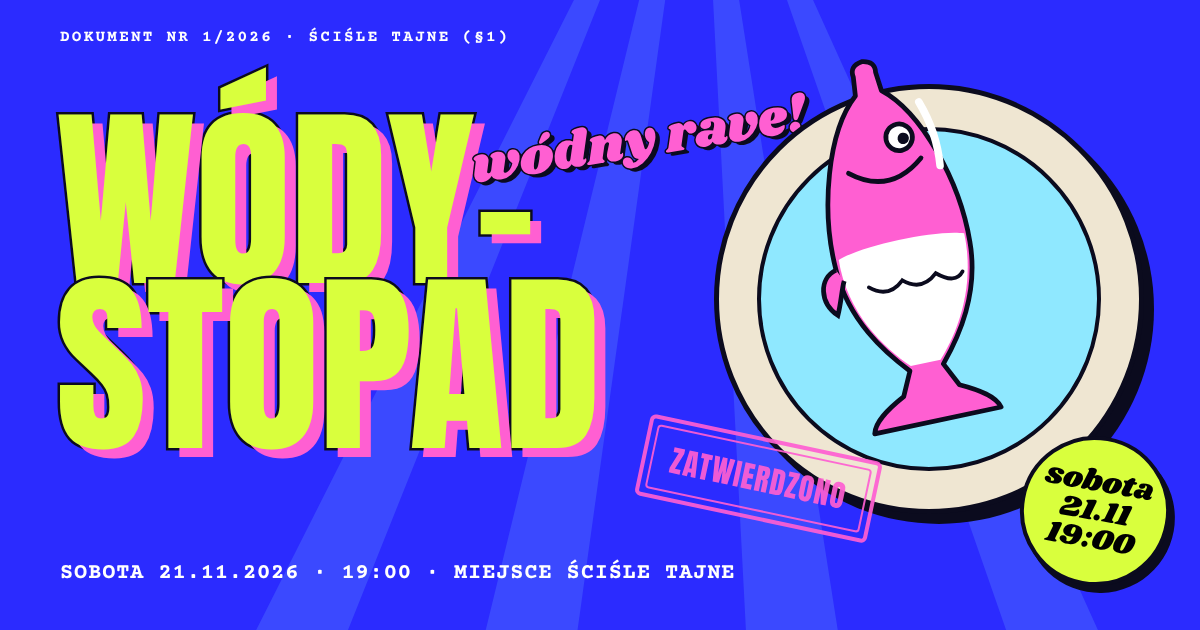
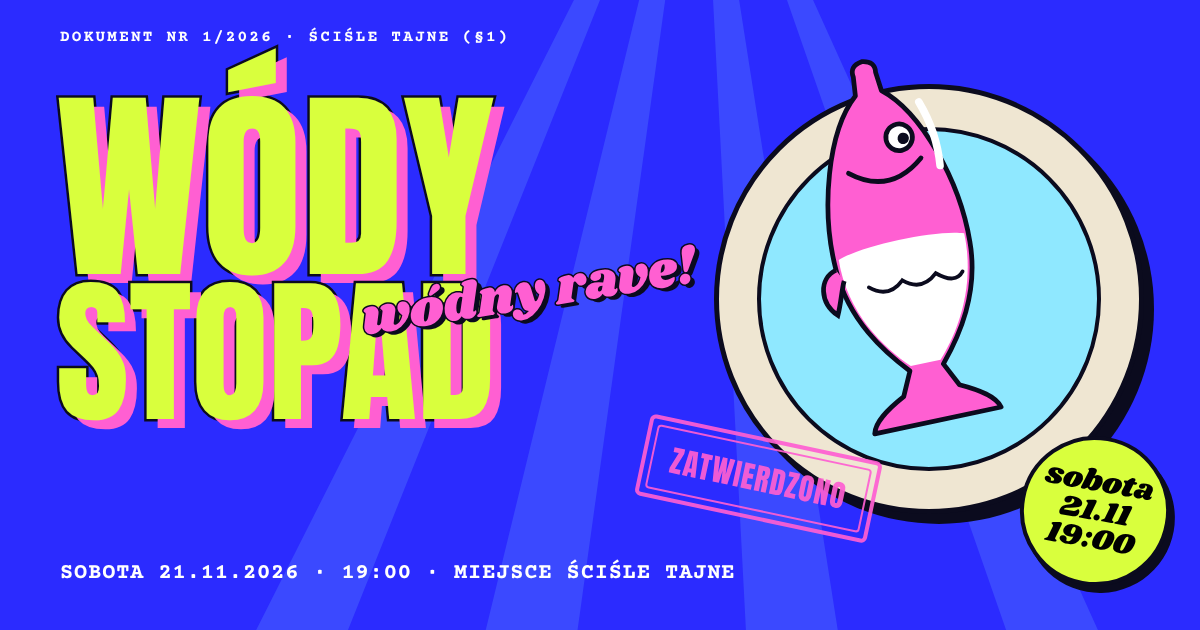
Header WÓDY/STOPAD równej szerokości, efekt rozmywania i zamiany liter, poprawki treści
- Header: bez myślnika, WÓDY skalowane do szerokości STOPAD (też w og.png)
- Rzadkie rozmywanie pojedynczych liter i zamiany sąsiednich liter w headerze
- Naklejka z datą: ciemny tekst (kontrast)
- Licznik: „Do wypicia pierwszego łyczka wódeczki pozostało”
- Usunięty dymek „ok szefie” i checkbox pełnoletności w przysiędze
- Ankieta „Jaka wódeczka?” pusta: propozycje + głosowanie
- Składeczka: kwota i BLIK nieustalone

Claude-Session: https://claude.ai/code/session_01Q6mtA3FM7HAc1Vv4gDvJxZ

Changed region(s): [[0.0308, 0.0603, 0.6783, 0.7238]]

diff --git a/index.html b/index.html
@@ -147,17 +147,20 @@ mark{background:none;color:var(--mag);font-weight:700}
 @keyframes pop{to{transform:scale(1.8);opacity:0}}
 .fish{position:absolute;width:var(--w,120px);height:auto;color:var(--c,#fff);transition:translate .6s cubic-bezier(.2,.9,.3,1.3)}
 .hero__grid{display:grid;grid-template-columns:minmax(0,1fr) minmax(0,520px);gap:24px;align-items:center;position:relative;z-index:3}
-.hero__meta{color:#fff;margin-bottom:64px}
-.hero__title{font:400 clamp(104px,16.4vw,250px)/.86 var(--f-display);text-transform:uppercase;position:relative}
-.hero__title .line{display:block;white-space:nowrap}
+.hero__meta{color:#fff;margin-bottom:56px}
+.hero__title{font:400 clamp(84px,12.8vw,192px)/.9 var(--f-display);text-transform:uppercase;position:relative}
+.hero__title .line{display:table;white-space:nowrap}
 .l{display:inline-block;color:var(--lime);-webkit-text-stroke:.022em var(--ink);paint-order:stroke fill;
   text-shadow:calc(.048em + var(--drunk)*.09em) calc(.04em + var(--drunk)*.03em) 0 var(--pink);
   transform:translateY(calc(var(--dy)*1px)) rotate(calc(var(--rot)*1deg));
   animation:bob var(--dur,3.2s) ease-in-out calc(var(--i)*-.37s) infinite alternate;transition:scale .3s cubic-bezier(.2,2,.4,1)}
 .l:hover{scale:1.08 .92}
+.l{transition:scale .3s cubic-bezier(.2,2,.4,1),filter .7s ease}
+.l.blurry{filter:blur(.05em)}
+.l.swapped{color:var(--pink);text-shadow:calc(.048em + var(--drunk)*.09em) calc(.04em + var(--drunk)*.03em) 0 var(--lime)}
 @keyframes bob{from{transform:translateY(calc(var(--dy)*1px)) rotate(calc(var(--rot)*1deg))}
   to{transform:translateY(calc(var(--dy)*1px - 8px - var(--drunk)*22px)) rotate(calc(var(--rot)*-1deg - var(--drunk)*12deg))}}
-.hero .sticker--rave{text-transform:none;position:absolute;font-size:clamp(28px,4.4vw,64px);right:clamp(-20px,2vw,40px);top:clamp(-10px,1vw,20px);transform:rotate(-9deg);z-index:2;animation:wiggle 2.4s ease-in-out infinite}
+.hero .sticker--rave{text-transform:none;position:absolute;font-size:clamp(28px,4vw,58px);left:62%;top:44%;white-space:nowrap;transform:rotate(-9deg);z-index:2;animation:wiggle 2.4s ease-in-out infinite}
 @keyframes wiggle{50%{transform:rotate(-4deg) scale(1.05)}}
 .hero__tag{color:#fff;font-size:clamp(15px,1.6vw,22px);line-height:1.45;margin-top:30px;max-width:30em}
 .porthole{position:relative;width:min(520px,100%);aspect-ratio:1;margin-left:auto;border-radius:50%;background:var(--paper);border:5px solid var(--ink);box-shadow:10px 10px 0 var(--ink)}
@@ -169,7 +172,7 @@ mark{background:none;color:var(--mag);font-weight:700}
 .carafe .liquid{animation:slosh 2.25s ease-in-out infinite alternate;transform-origin:50% 60%;transform-box:fill-box}
 @keyframes slosh{from{transform:skewY(-5deg)}to{transform:skewY(5deg) translateY(2px)}}
 .porthole .stamp{position:absolute;left:-18%;bottom:12%;color:var(--pink);--rot:12deg;z-index:3}
-.date-sticker{position:absolute;right:-4%;bottom:-2%;width:30%;aspect-ratio:1;border-radius:50%;background:var(--lime);border:4px solid var(--ink);box-shadow:6px 6px 0 var(--ink);display:grid;place-items:center;text-align:center;font:400 clamp(16px,2.2vw,32px)/.95 var(--f-sticker);transform:rotate(10deg);z-index:4;animation:spinny 9s ease-in-out infinite}
+.date-sticker{position:absolute;right:-4%;bottom:-2%;width:30%;aspect-ratio:1;border-radius:50%;background:var(--lime);color:var(--ink);border:4px solid var(--ink);box-shadow:6px 6px 0 var(--ink);display:grid;place-items:center;text-align:center;font:400 clamp(16px,2.2vw,32px)/.95 var(--f-sticker);transform:rotate(10deg);z-index:4;animation:spinny 9s ease-in-out infinite}
 @keyframes spinny{50%{transform:rotate(-4deg) scale(1.04)}}
 
 /* odliczanie */
@@ -185,7 +188,7 @@ mark{background:none;color:var(--mag);font-weight:700}
 .cd__num.flip{animation:flip .45s ease}
 @keyframes flip{0%{transform:rotateX(0)}45%{transform:rotateX(88deg)}100%{transform:rotateX(0)}}
 .cd__unit{font:700 13px var(--f-type);letter-spacing:.2em}
-.cd.done .cd__label b::after{content:" KARAFKA OTWARTA!";color:var(--mag)}
+.cd.done .cd__label b::after{content:" PIJEMY!";color:var(--mag)}
 
 /* =========================================================
    MARQUEE
@@ -222,10 +225,6 @@ mark{background:none;color:var(--mag);font-weight:700}
 .sign small{font:700 13px var(--f-type);letter-spacing:.16em}
 .clip{position:absolute;top:-40px;left:60px;width:40px;height:110px}
 .sheet .stamp{position:absolute;right:8%;bottom:18%;color:var(--mag);--rot:-16deg}
-.reply{position:absolute;right:-26px;bottom:-34px;background:var(--pink);border:3px solid var(--ink);border-radius:22px;box-shadow:5px 5px 0 var(--ink);padding:12px 20px;transform:rotate(6deg) scale(0);transform-origin:0 100%;transition:transform .45s cubic-bezier(.2,1.6,.4,1)}
-.reply.show{transform:rotate(6deg) scale(1)}
-.reply b{display:block;font-size:20px}
-.reply small{font-size:11px;opacity:.7}
 
 /* =========================================================
    REGULAMIN
@@ -279,6 +278,7 @@ mark{background:none;color:var(--mag);font-weight:700}
 .poll button.mine .row span::before{content:"✓ "}
 .poll button.mine .bar i{background:var(--ink)}
 .poll-add{display:flex;gap:8px}
+.poll-empty{font-style:italic;font-size:15px;line-height:1.5;background:rgba(255,255,255,.45);border:2px dashed var(--ink);border-radius:12px;padding:16px}
 .poll-add input{flex:1;min-width:0;border:2px solid var(--ink);border-radius:12px;padding:12px 14px;font:14px var(--f-type);background:#fff}
 .poll-add button{border:2px solid var(--ink);border-radius:12px;background:var(--ink);color:var(--lime);padding:0 16px;font-weight:700}
 .stepper{display:flex;align-items:center;gap:20px}
@@ -302,6 +302,8 @@ mark{background:none;color:var(--mag);font-weight:700}
 .ledger{background:#fff;border:2px solid var(--ink);border-radius:12px;padding:14px 16px;font-size:14px;line-height:1.6}
 .ledger b{display:block}
 .ledger .warn{color:var(--mag);animation:warn 1.2s steps(2) infinite}
+.coinbar__tbd{position:absolute;inset:0;display:grid;place-items:center;font:italic 700 13px var(--f-type);color:var(--ink);opacity:.6;animation:warn 1.6s steps(2) infinite}
+.pay--tbd{background:transparent!important;color:var(--ink)!important;border-style:dashed!important}
 @keyframes warn{50%{opacity:.4}}
 .panel .btn-pill{justify-content:center;margin-top:auto}
 .zp__foot{display:flex;justify-content:space-between;align-items:flex-end;gap:30px;margin-top:70px;flex-wrap:wrap}
@@ -505,14 +507,15 @@ mark{background:none;color:var(--mag);font-weight:700}
   .hero__meta{font-size:9px;margin-bottom:34px}
   .stamp small{font-size:8px;letter-spacing:.1em}
   .stamp>span{padding:6px 12px}
-  .hero__title{font-size:min(118px,29vw);line-height:.92}
-  .hero .sticker--rave{font-size:28px;right:-6px;top:-14px;-webkit-text-stroke-width:2px;text-shadow:3px 3px 0 var(--ink)}
+  .hero__title{font-size:min(96px,24vw);line-height:.92}
+  .hero .sticker--rave{font-size:24px;left:auto;right:-10px;top:40%;-webkit-text-stroke-width:2px;text-shadow:3px 3px 0 var(--ink)}
   .hero__right{margin-top:22px}
-  .porthole{width:230px;margin:0 auto;box-shadow:6px 6px 0 var(--ink);border-width:4px}
+  .porthole{width:196px;margin:0 auto;box-shadow:6px 6px 0 var(--ink);border-width:4px}
   .porthole .stamp{left:-26%;bottom:4%;--ss:16px}
   .porthole .stamp>span{padding:6px 12px}
   .date-sticker{width:96px;right:-22%;bottom:10%;font-size:16px;border-width:3px;box-shadow:4px 4px 0 var(--ink)}
-  .hero__tag{font-size:14px;margin-top:26px}
+  .hero__tag{font-size:13.5px;margin-top:20px}
+  .hero__tag br{display:none}
   .cd{margin-top:16px;gap:10px;flex-wrap:nowrap}
   .cd__label{position:absolute;top:-22px;left:0;width:auto;padding:0;background:none;border:0;box-shadow:none;transform:none}
   .cd__label b{font-size:10px;color:var(--lime);letter-spacing:.1em}
@@ -532,8 +535,7 @@ mark{background:none;color:var(--mag);font-weight:700}
   .sheet h3{font-size:17px}
   .clip{width:26px;height:72px;top:-34px}
   .sheet .stamp{--ss:22px;right:4%;bottom:14%}
-  .reply{right:-6px;bottom:-30px;padding:10px 14px} .reply b{font-size:15px}
-  .attachments{order:3;margin-top:70px}
+     .attachments{order:3;margin-top:70px}
   .pismo__left{display:contents}
   .pismo__note{font-size:16px}
   /* regulamin */
@@ -720,7 +722,7 @@ mark{background:none;color:var(--mag);font-weight:700}
   <button class="btn-pill btn-lime" id="menu-close" style="position:absolute;top:22px;right:28px;padding:8px 14px;font-size:12px">ZAMKNIJ ✕</button>
   <p class="eyebrow" style="color:var(--lime);font-size:10px">Spis treści · Dok. nr 1/2026</p>
   <ol id="menu-list"></ol>
-  <div class="menu__cd"><span data-cd-text>DO OTWARCIA KARAFKI: —</span><small>SOBOTA 21.11.2026 · 19:00 · MIEJSCE ŚCIŚLE TAJNE</small></div>
+  <div class="menu__cd"><span data-cd-text>DO PIERWSZEGO ŁYCZKA: —</span><small>SOBOTA 21.11.2026 · 19:00 · MIEJSCE ŚCIŚLE TAJNE</small></div>
 </div>
 
 <div class="sticky" id="sticky">
@@ -739,8 +741,8 @@ mark{background:none;color:var(--mag);font-weight:700}
     <div class="hero__grid">
       <div class="hero__left">
         <p class="eyebrow hero__meta">Dokument nr 1/2026 · klauzula: ściśle tajne (§1) · edycja: wódna</p>
-        <h1 class="hero__title" aria-label="Wódystopad"><span class="line" data-split>WÓDY-</span><span class="line" data-split>STOPAD</span><span class="sticker sticker--rave" aria-hidden="true">wódny rave!</span></h1>
-        <p class="hero__tag">Jedyny miesiąc w roku, w którym pijemy wódkę.<br>A konkretnie — jeden wieczór.</p>
+        <h1 class="hero__title" aria-label="Wódystopad"><span class="line" data-split>WÓDY</span><span class="line" data-split>STOPAD</span><span class="sticker sticker--rave" aria-hidden="true">wódny rave!</span></h1>
+        <p class="hero__tag">Jedyny miesiąc w roku, w którym pijemy wódkę. <br>A konkretnie — jeden wieczór.</p>
       </div>
       <div class="hero__right">
         <div class="porthole" id="porthole">
@@ -752,7 +754,7 @@ mark{background:none;color:var(--mag);font-weight:700}
       </div>
     </div>
     <div class="cd" id="countdown" aria-live="off">
-      <div class="cd__label"><b>DO OTWARCIA KARAFKI POZOSTAŁO:</b><i>(odliczanie urzędowe, nie podlega negocjacjom)</i></div>
+      <div class="cd__label"><b>DO WYPICIA PIERWSZEGO ŁYCZKA WÓDECZKI POZOSTAŁO:</b><i>(odliczanie urzędowe, nie podlega negocjacjom)</i></div>
       <div class="cd__cell"><span class="cd__num" data-u="d">00</span><span class="cd__unit">DNI</span></div>
       <div class="cd__cell"><span class="cd__num" data-u="h">00</span><span class="cd__unit">GODZ.</span></div>
       <div class="cd__cell"><span class="cd__num" data-u="m">00</span><span class="cd__unit">MIN.</span></div>
@@ -791,7 +793,6 @@ mark{background:none;color:var(--mag);font-weight:700}
       <p class="hl" data-type>Pieczątkę odbycia kary podbiję.</p>
       <div class="sign"><b>Wiktorek</b><small>WÓDZIREJ NACZELNY</small></div>
       <div class="stamp" data-stamp id="sheet-stamp"><span><b>WÓDZIREJ</b><small>pieczęć urzędowa</small></span></div>
-      <div class="reply" id="reply"><b>ok szefie</b><small>przeczytano ✓✓</small></div>
     </article>
   </div>
 </section>
@@ -833,7 +834,7 @@ mark{background:none;color:var(--mag);font-weight:700}
     <nav class="tabs" id="tabs" aria-label="Panele zaopatrzenia"><a href="#p-marka" class="on">MARKA</a><a href="#p-butelki">BUTELKI</a><a href="#p-skladeczka">SKŁADECZKA</a></nav>
     <div class="panels">
       <div class="panel" id="p-marka" data-reveal>
-        <span class="panel__k">ANKIETA W-2 · JEDEN GŁOS NA WÓDOWICZA</span>
+        <span class="panel__k">ANKIETA W-2 · ZGŁOŚ MARKĘ I GŁOSUJ</span>
         <h3>Jaka wódeczka?</h3>
         <div class="poll" id="poll"></div>
         <form class="poll-add" id="poll-add"><input type="text" id="poll-input" maxlength="40" placeholder="+ zgłoś markę (bez żartów)" aria-label="Zgłoś markę"><button type="submit" aria-label="Dodaj">+</button></form>
@@ -934,7 +935,6 @@ mark{background:none;color:var(--mag);font-weight:700}
         <label class="f">IMIĘ I NAZWISKO<input type="text" name="imie" autocomplete="name" required></label>
         <label class="f">KSYWA WÓDCZANA (OPCJONALNIE)<input type="text" name="ksywa"></label>
         <label class="check"><input type="checkbox" name="regulamin" required>Zapoznałem(-am) się z regulaminem (lub ktoś mi go przeczytał).</label>
-        <label class="check"><input type="checkbox" name="pelnoletni" required>Jestem osobą pełnoletnią.</label>
         <label class="check"><input type="checkbox" name="skladeczka">Wpłaciłem(-am) na składeczkę i nie zostawiam „wyświetlone”.</label>
         <p class="err" id="oath-err" aria-live="polite"></p>
         <button class="btn-pill btn-ink" type="submit">Przysięgam uroczyście →</button>
@@ -1008,9 +1008,9 @@ const CONFIG = {
     ['19:00','Otwarcie butelki i kielonek powitalny','xl'], ['19:15','Toast inauguracyjny','l'], ['19:30','Odczyt regulaminu na głos','m'],
     ['21:00','Posiedzenie komisji','s'], ['23:00','Wolne wnioski (tryb §3)','xs'], ['??:??','+ Zamknięcie posiedzenia','xxs'],
   ],
-  poll: [ ['Klasyczna czysta (głos rozsądku)',4], ['Żytnia (dla koneserów)',2], ['Ta z trawką (komisja bada §6)',1], ['Najtańsza (veto Wódzireja)',0] ],
+  poll: [],   // propozycje startowe [nazwa, głosy] — pusta = Wódowicze zgłaszają sami
   bottles: 6, guests: 8, bottleMl: 700, glassMl: 30,
-  skladeczka: { zebrano:240, cel:400, wplacili:5, wyswietlone:2, blik:'+48 000 000 000', tytul:'Tytuł: „Wódystopad — składeczka”' },
+  skladeczka: { zebrano:0, cel:null, wplacili:0, wyswietlone:null, blik:'', tytul:'Tytuł: „Wódystopad — składeczka”' }, // cel:null / blik:'' = jeszcze nieustalone
   sworn: 5,                 // ile osób złożyło przysięgę (stan startowy)
   formEndpoint: '',         // np. 'https://formspree.io/f/xxxxxxx' — wtedy przysięgi lecą do Wódzireja mailem
   counterAlwaysOn: false,   // true = licznik rybek działa także przed 21.11 (do testów)
@@ -1081,6 +1081,17 @@ $$('[data-reveal],[data-stamp]').forEach(el => revealIO.observe(el));
 $$('[data-split]').forEach((line, li) => { const t = line.textContent; line.textContent='';
   [...t].forEach((ch,i) => { const s = document.createElement('span'); s.className='l'; s.textContent=ch; s.setAttribute('aria-hidden','true');
     s.style.cssText = `--i:${li*6+i};--dy:${((rnd()-.5)*18).toFixed(1)};--rot:${((rnd()-.5)*9).toFixed(1)};--dur:${(2.6+rnd()*1.4).toFixed(2)}s`; line.appendChild(s); }); });
+(() => { const [w1, w2] = $$('.hero__title .line'); // WÓDY = szerokość STOPAD
+  const fit = () => { w1.style.fontSize = '1em'; const r = w2.offsetWidth / w1.offsetWidth; w1.style.fontSize = r.toFixed(4) + 'em'; };
+  fit(); addEventListener('resize', fit); document.fonts && document.fonts.ready.then(fit); })();
+(() => { if (reduced) return; // pojedyncze litery: czasem się rozmyją, czasem dwie zamienią miejscami — rzadko i delikatnie
+  const lines = $$('.hero__title .line').map(l => $$('.l', l)); const all = lines.flat(); const r = (a,b) => a + Math.random()*(b-a);
+  const blur = () => { const el = all[Math.floor(Math.random()*all.length)]; el.classList.add('blurry'); setTimeout(() => el.classList.remove('blurry'), r(900,1500)); setTimeout(blur, r(2600,5200)); };
+  const swap = () => { const ln = lines[Math.floor(Math.random()*lines.length)]; const i = Math.floor(Math.random()*(ln.length-1)); const a = ln[i], b = ln[i+1];
+    [a.textContent, b.textContent] = [b.textContent, a.textContent]; a.classList.add('swapped'); b.classList.add('swapped');
+    setTimeout(() => { [a.textContent, b.textContent] = [b.textContent, a.textContent]; a.classList.remove('swapped'); b.classList.remove('swapped'); }, r(550,850));
+    setTimeout(swap, r(6000,11000)); };
+  setTimeout(blur, 1800); setTimeout(swap, 4500); })();
 (() => { let p=''; const ax=900, ay=-300, L=2200; for(let i=0;i<9;i++){ const a=(-48+i*12)*Math.PI/180, b=a+5.5*Math.PI/180;
   p+=`M${ax} ${ay} L${(ax+L*Math.sin(a)).toFixed(0)} ${(ay+L*Math.cos(a)).toFixed(0)} L${(ax+L*Math.sin(b)).toFixed(0)} ${(ay+L*Math.cos(b)).toFixed(0)} Z `; }
   $('#rays').innerHTML = `<path d="${p}" fill="#8FE8FF" fill-opacity=".16"/>`; })();
@@ -1123,7 +1134,7 @@ spawnFish($('#fishes2'), [[18,120,'#FF5FD2',.8],[30,100,'#fff',.6],[78,90,'#D9FF
   const tick = () => { let ms = Math.max(0, target - Date.now()); const d=Math.floor(ms/864e5), h=Math.floor(ms/36e5)%24, m=Math.floor(ms/6e4)%60, s=Math.floor(ms/1e3)%60;
     const v = {d:pad(d),h:pad(h),m:pad(m),s:pad(s)};
     for (const k in v) if (els[k].textContent !== v[k]) { els[k].textContent = v[k]; if(!reduced){ els[k].classList.remove('flip'); void els[k].offsetWidth; els[k].classList.add('flip'); } }
-    menuCd.textContent = `DO OTWARCIA KARAFKI: ${v.d} DNI ${v.h}:${v.m}:${v.s}`;
+    menuCd.textContent = `DO PIERWSZEGO ŁYCZKA: ${v.d} DNI ${v.h}:${v.m}:${v.s}`;
     if (ms === 0) $('#countdown').classList.add('done'); };
   tick(); setInterval(tick, 1000); })();
 
@@ -1138,10 +1149,10 @@ spawnFish($('#fishes2'), [[18,120,'#FF5FD2',.8],[30,100,'#fff',.6],[78,90,'#D9FF
    PISMO: maszyna do pisania
    ========================================================= */
 (() => { const ps = $$('[data-type]'); const texts = ps.map(p => p.textContent); let started = false;
-  if (reduced) { $('#reply').classList.add('show'); return; }
+  if (reduced) return;
   ps.forEach(p => p.style.minHeight = p.offsetHeight + 'px');
   const io = new IntersectionObserver(es => { if (!es[0].isIntersecting || started) return; started = true; io.disconnect(); ps.forEach(p => p.textContent='');
-    let i = 0; const next = () => { if (i >= ps.length) { $('#sheet-stamp').classList.add('in'); setTimeout(()=>$('#reply').classList.add('show'), 700); return; }
+    let i = 0; const next = () => { if (i >= ps.length) { $('#sheet-stamp').classList.add('in'); return; }
       const p = ps[i], t = texts[i]; let c = 0; p.classList.add('typing');
       const step = () => { c += 3; p.textContent = t.slice(0, c); if (c < t.length) setTimeout(step, 14); else { p.classList.remove('typing'); i++; setTimeout(next, 220); } }; step(); };
     next(); }, {threshold:.35});
@@ -1186,10 +1197,12 @@ spawnFish($('#fishes2'), [[18,120,'#FF5FD2',.8],[30,100,'#fff',.6],[78,90,'#D9FF
   let opts = store.get('poll-extra', []); const mine = () => store.get('poll-vote', null);
   const render = () => { const all = CONFIG.poll.concat(opts.map(o=>[o,0])); const v = mine();
     const votes = all.map(([n,c]) => c + (v===n?1:0)); const max = Math.max(4, ...votes);
+    if (!all.length) { $('#poll').innerHTML = '<p class="poll-empty">Brak propozycji. Komisja czeka na pierwszą markę — zgłoś ją poniżej (bez żartów).</p>'; return; }
     $('#poll').innerHTML = all.map(([n],i) => `<button type="button" class="${v===n?'mine':''}" data-n="${n.replace(/"/g,'&quot;')}"><div class="row"><span>${n}</span><em>${votes[i]}</em></div><div class="bar"><i style="width:${Math.max(3, votes[i]/max*100)}%"></i></div></button>`).join('');
     $$('#poll button').forEach(b => b.onclick = () => { store.set('poll-vote', b.dataset.n); render(); toast('Głos oddany. Komisja odnotowała.'); }); };
   $('#poll-add').onsubmit = e => { e.preventDefault(); const v = $('#poll-input').value.trim(); if (!v) return;
-    if (/żart|haha|xd/i.test(v)) { toast('Mówiłem: bez żartów.'); return; } opts.push(v); store.set('poll-extra', opts); store.set('poll-vote', v); $('#poll-input').value=''; render(); toast('Propozycja przyjęta (i od razu Twój głos).'); };
+    if (/żart|haha|xd/i.test(v)) { toast('Mówiłem: bez żartów.'); return; }
+    if (CONFIG.poll.concat(opts.map(o=>[o])).some(([n]) => n.toLowerCase() === v.toLowerCase())) { toast('Ta marka już jest na liście — zagłosuj na nią.'); return; } opts.push(v); store.set('poll-extra', opts); store.set('poll-vote', v); $('#poll-input').value=''; render(); toast('Propozycja przyjęta (i od razu Twój głos).'); };
   render();
 })();
 (() => { // butelki
@@ -1204,13 +1217,17 @@ spawnFish($('#fishes2'), [[18,120,'#FF5FD2',.8],[30,100,'#fff',.6],[78,90,'#D9FF
   render();
 })();
 (() => { // składeczka
-  const s = CONFIG.skladeczka, pct = Math.min(100, s.zebrano/s.cel*100);
-  $('#money').textContent = `${s.zebrano} / ${s.cel} ZŁ`;
-  const bar = $('#coinbar'); new IntersectionObserver((es,o)=>{ if(!es[0].isIntersecting) return; o.disconnect(); $('i',bar).style.width = pct+'%';
+  const s = CONFIG.skladeczka, set = !!s.cel, pct = set ? Math.min(100, s.zebrano/s.cel*100) : 0;
+  $('#money').innerHTML = set ? `${s.zebrano} / ${s.cel} ZŁ` : 'KWOTA: <span style="color:#fff;-webkit-text-stroke:2px var(--ink);paint-order:stroke fill">NIEUSTALONA</span>';
+  const bar = $('#coinbar'); if (set) new IntersectionObserver((es,o)=>{ if(!es[0].isIntersecting) return; o.disconnect(); $('i',bar).style.width = pct+'%';
     const n = Math.max(1, Math.floor(pct/12)); for(let i=0;i<n;i++){ const c=document.createElement('span'); c.className='coin'; c.style.left=(6+i*(pct/n))+'%'; c.style.animationDelay=(i*.12)+'s'; bar.appendChild(c);} }, {threshold:.6}).observe(bar);
-  $('#ledger').innerHTML = `<b>✓ Wpłacili: ${s.wplacili} z ${CONFIG.guests}</b><b class="warn">… Wyświetlone, nieodpisane: ${s.wyswietlone}</b><i style="opacity:.7">→ ryzyko utraty nóg (§7)</i>`;
-  const modal = $('#blik'); $('#blik-nr').textContent = s.blik; $('#blik-title').textContent = s.tytul;
-  $('#pay').onclick = () => { modal.hidden = false; };
+  else bar.insertAdjacentHTML('beforeend','<em class="coinbar__tbd">Wódzirej liczy…</em>');
+  $('#ledger').innerHTML = set
+    ? `<b>✓ Wpłacili: ${s.wplacili} z ${CONFIG.guests}</b>${s.wyswietlone?`<b class="warn">… Wyświetlone, nieodpisane: ${s.wyswietlone}</b><i style="opacity:.7">→ ryzyko utraty nóg (§7)</i>`:''}`
+    : `<b>Kwota i numer BLIK: do ustalenia.</b><b class="warn">Ale bilon szykujemy już teraz.</b><i style="opacity:.7">Kto zostawi „wyświetlone” → ryzyko utraty nóg (§7)</i>`;
+  const modal = $('#blik'), pay = $('#pay');
+  if (!s.blik) { pay.textContent = 'BLIK wkrótce — trzymaj bilon'; pay.classList.add('pay--tbd'); pay.onclick = () => toast('Numer BLIK jeszcze nieustalony. Wódzirej da znać na grupie.'); }
+  else { $('#blik-nr').textContent = s.blik; $('#blik-title').textContent = s.tytul; pay.onclick = () => { modal.hidden = false; }; }
   $('#blik-close').onclick = () => modal.hidden = true; modal.onclick = e => { if (e.target===modal) modal.hidden = true; };
   $('#blik-copy').onclick = async () => { try { await navigator.clipboard.writeText(s.blik.replace(/\s/g,'')); toast('Skopiowano. Bilon czeka.'); } catch(e){ toast(s.blik); } };
   // zakładki (mobile)
@@ -1301,7 +1318,7 @@ carouselDots($('#kary-track'), $('#kary-dots'), 'przesuń →');
   if (store.get('sworn', false)) $('#oath-stamp').classList.add('in');
   form.onsubmit = async e => { e.preventDefault(); const fd = new FormData(form);
     if (!fd.get('imie').trim()) { $('#oath-err').textContent = 'Imię i nazwisko — obowiązkowo. Komisja musi wiedzieć, kogo karać.'; return; }
-    if (!fd.get('regulamin') || !fd.get('pelnoletni')) { $('#oath-err').textContent = 'Zaznacz regulamin i pełnoletność. Bez tego ani rusz.'; return; }
+    if (!fd.get('regulamin')) { $('#oath-err').textContent = 'Zaznacz regulamin. Bez tego ani rusz.'; return; }
     $('#oath-err').textContent = '';
     if (CONFIG.formEndpoint) { try { await fetch(CONFIG.formEndpoint, {method:'POST', headers:{'Accept':'application/json'}, body: fd}); } catch(err) {} }
     const st = $('#oath-stamp'); st.classList.remove('in'); void st.offsetWidth; st.classList.add('in');
